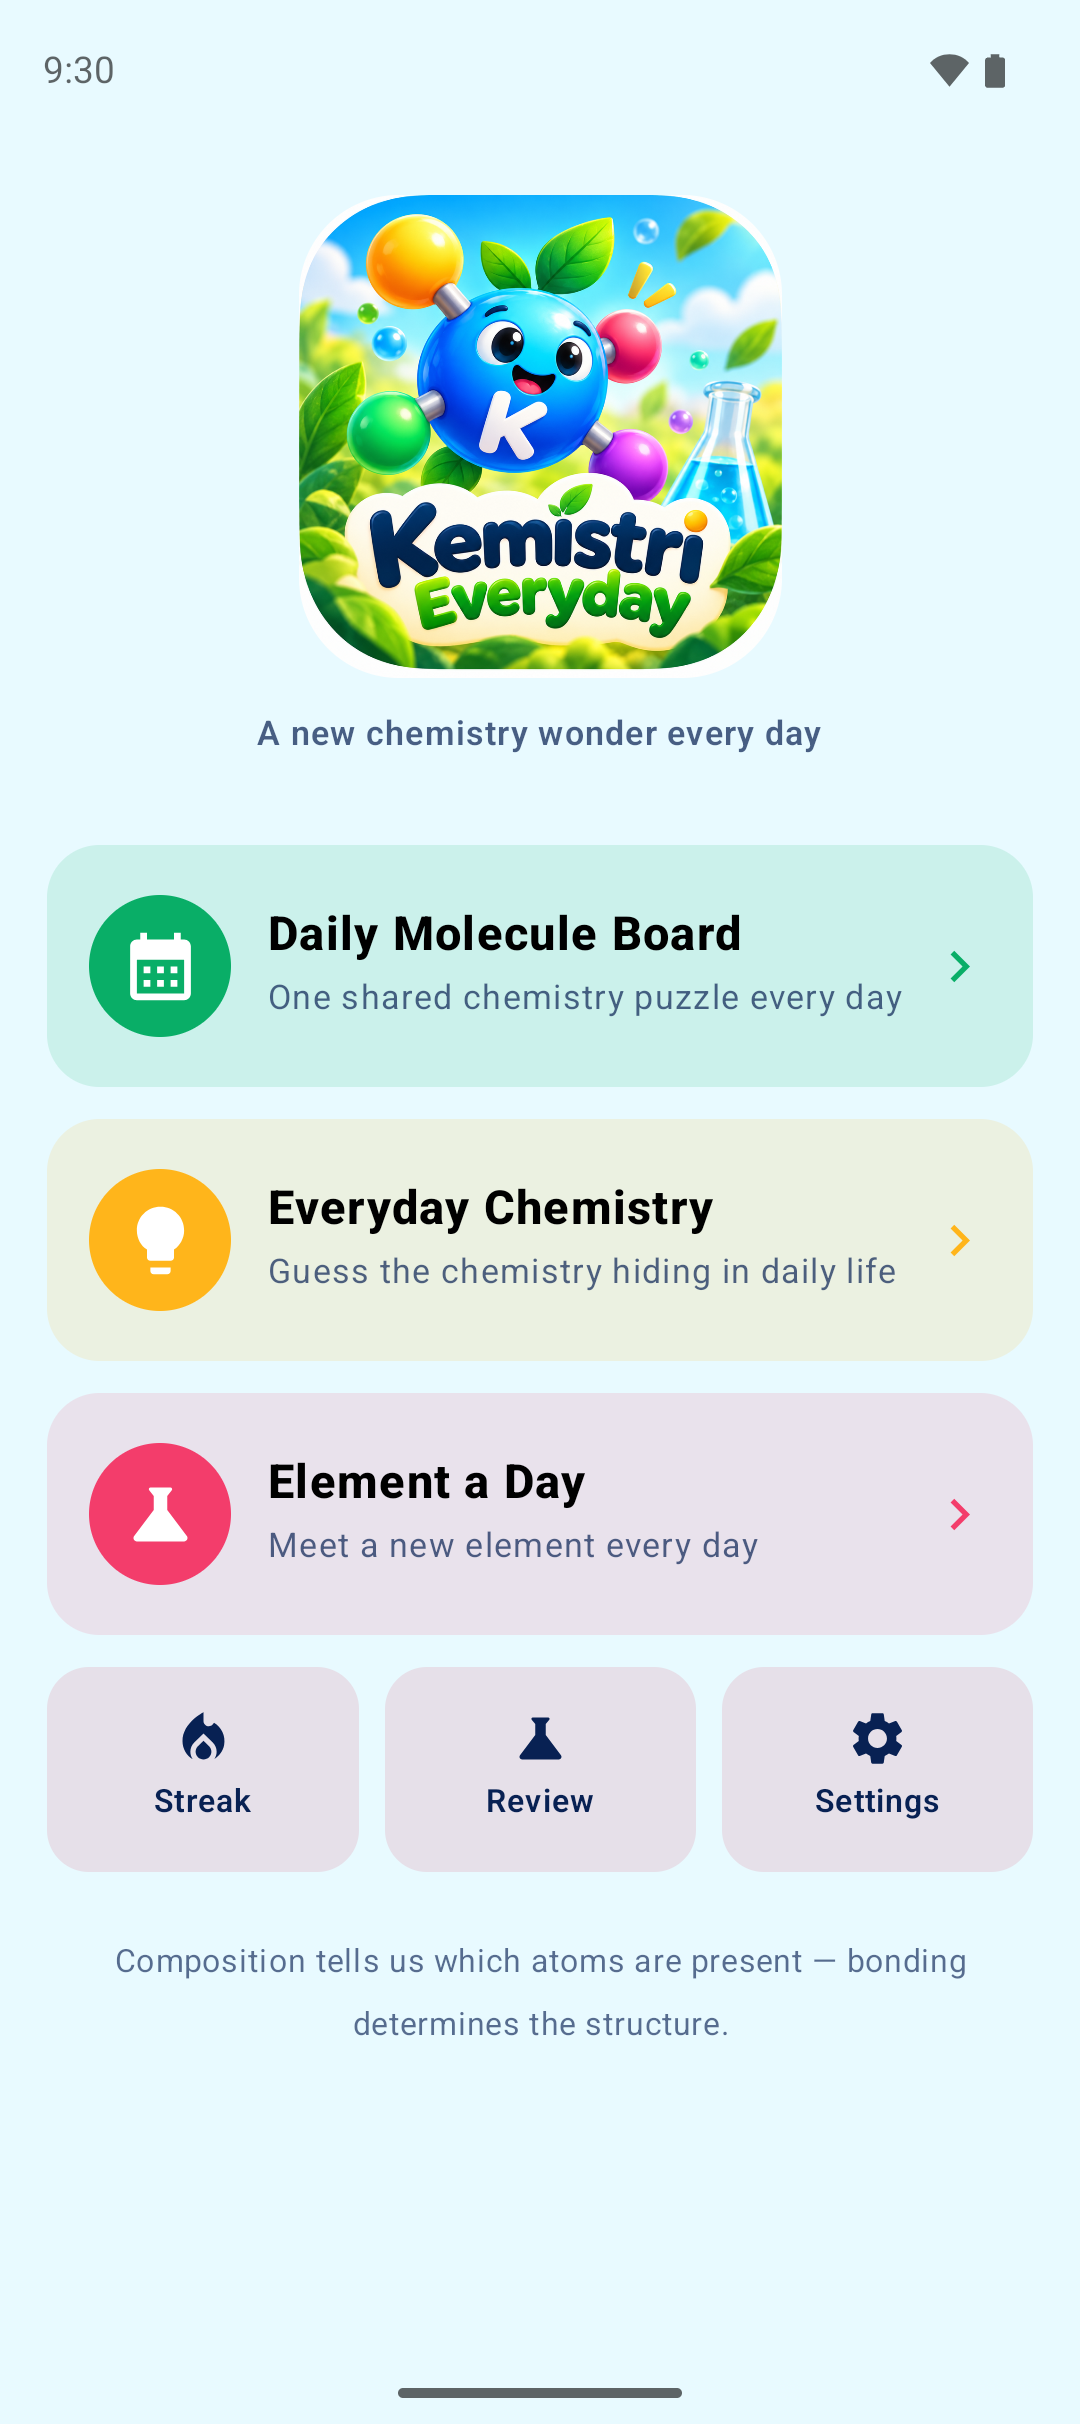
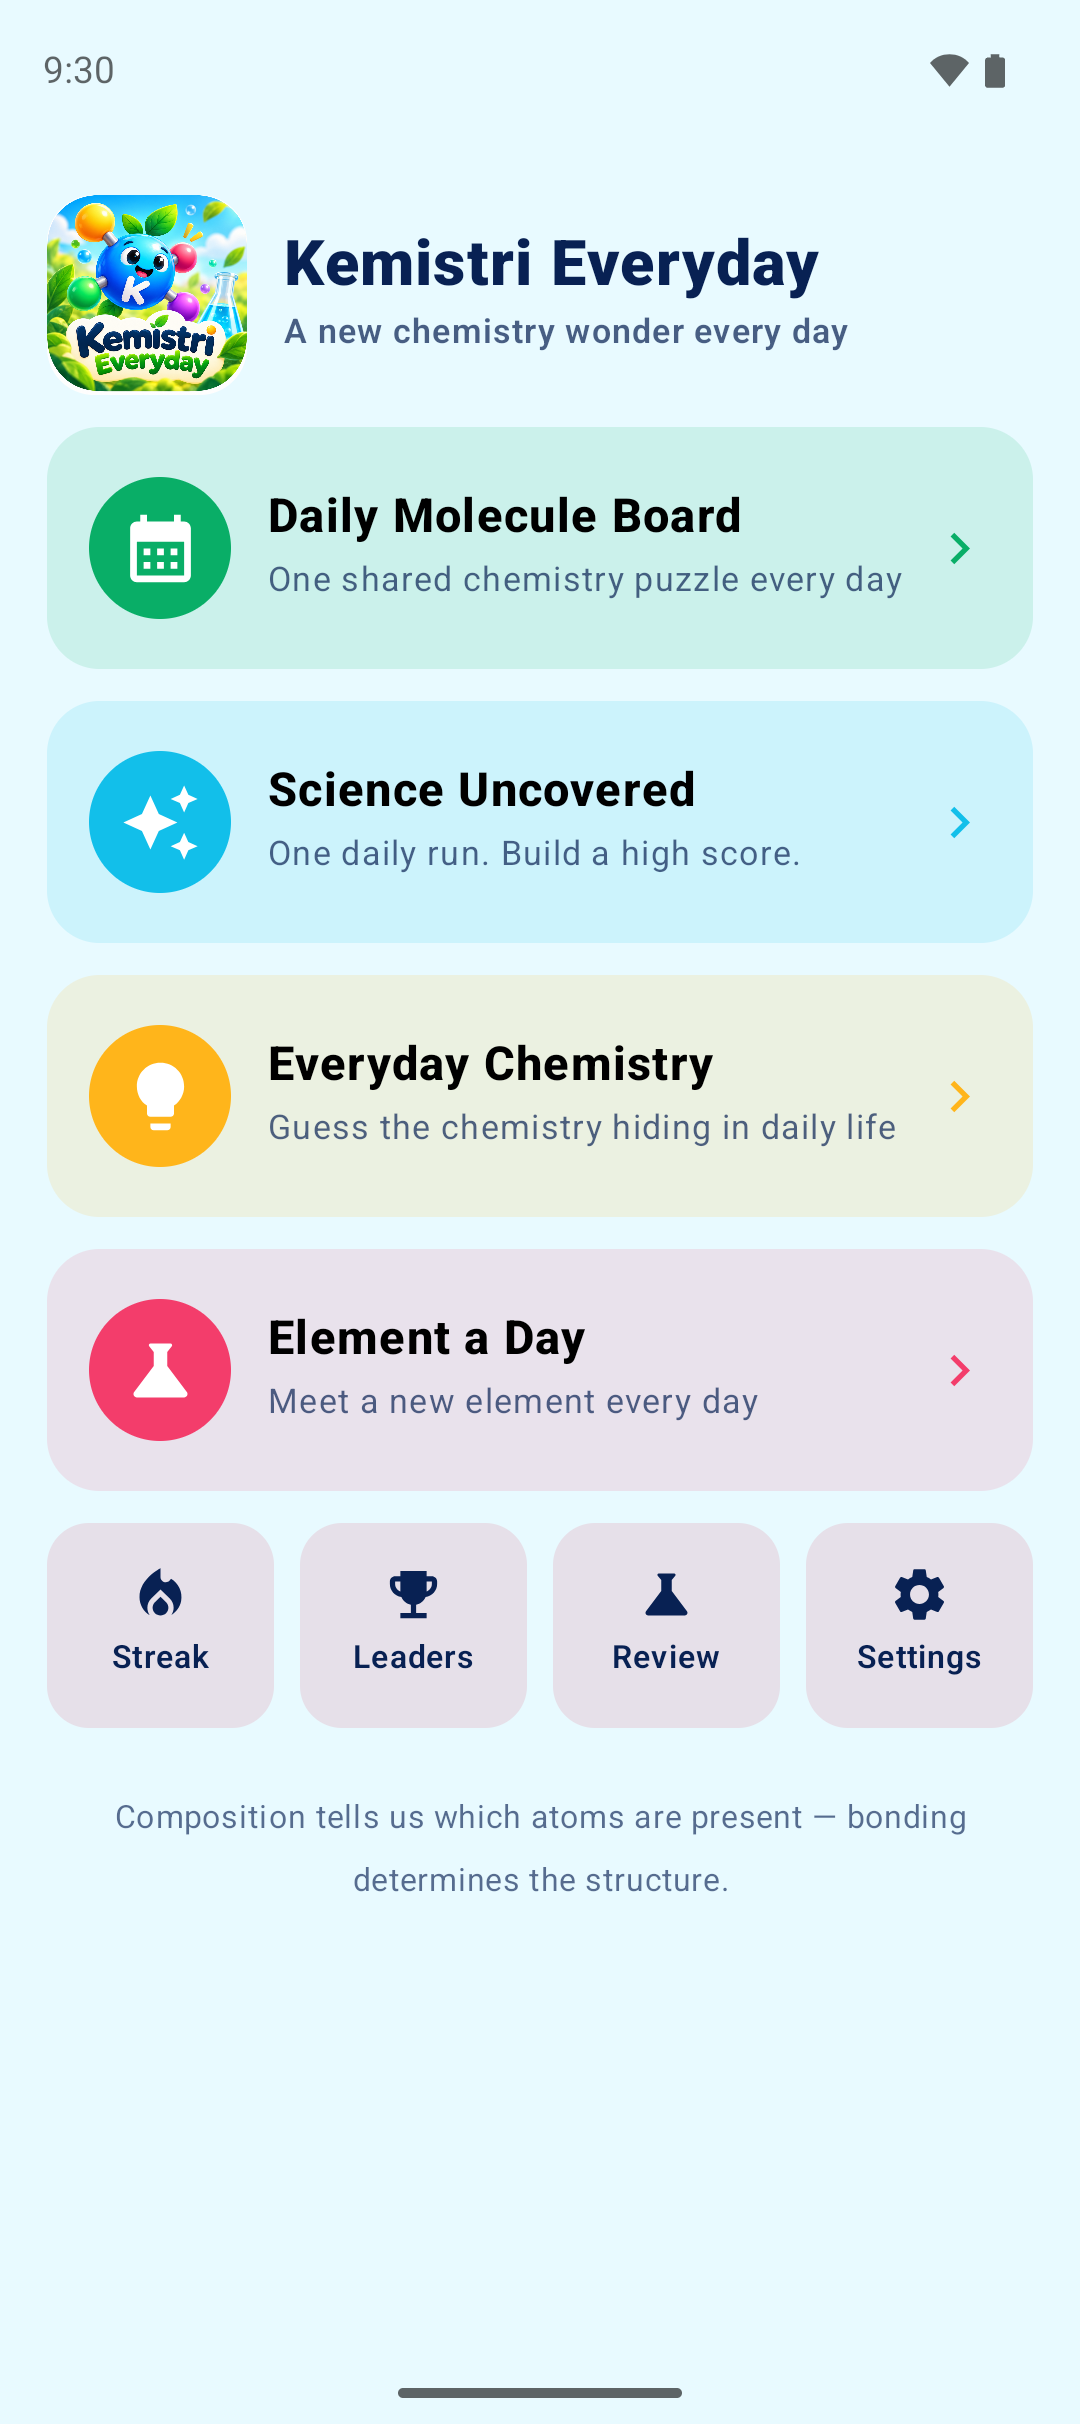
Compact home header to make room for the game cards

diff --git a/app/src/main/java/uk/edbetter/kemdaily/ui/KemistriApp.kt b/app/src/main/java/uk/edbetter/kemdaily/ui/KemistriApp.kt
@@ -200,26 +200,25 @@ private fun HomeScreen(nav: NavHostController, viewModel: MainViewModel) {
             verticalArrangement = Arrangement.spacedBy(12.dp),
         ) {
             item {
-                Column(
-                    modifier = Modifier.fillMaxWidth(),
-                    horizontalAlignment = Alignment.CenterHorizontally,
-                ) {
+                Row(Modifier.fillMaxWidth(), verticalAlignment = Alignment.CenterVertically) {
                     Image(
                         painterResource(R.drawable.kemistri_everyday_brand),
                         contentDescription = "Kemistri Everyday logo",
-                        modifier = Modifier.size(184.dp).clip(RoundedCornerShape(38.dp)),
+                        modifier = Modifier.size(76.dp).clip(RoundedCornerShape(18.dp)),
                         contentScale = ContentScale.Crop,
                     )
-                    Spacer(Modifier.height(9.dp))
-                    Text(
-                        "A new chemistry wonder every day",
-                        color = Navy.copy(alpha = .72f),
-                        fontSize = 13.sp,
-                        fontWeight = FontWeight.SemiBold,
-                    )
+                    Spacer(Modifier.width(14.dp))
+                    Column {
+                        Text("Kemistri Everyday", color = Navy, fontWeight = FontWeight.Black, fontSize = 24.sp)
+                        Text(
+                            "A new chemistry wonder every day",
+                            color = Navy.copy(alpha = .72f),
+                            fontSize = 13.sp,
+                            fontWeight = FontWeight.SemiBold,
+                        )
+                    }
                 }
             }
-            item { Spacer(Modifier.height(6.dp)) }
             item {
                 val dailySubtitle = if (streak > 0) "$streak-day streak · one shared puzzle every day" else "One shared chemistry puzzle every day"
                 FeatureCard("Daily Molecule Board", dailySubtitle, Icons.Default.CalendarMonth, Green) {
